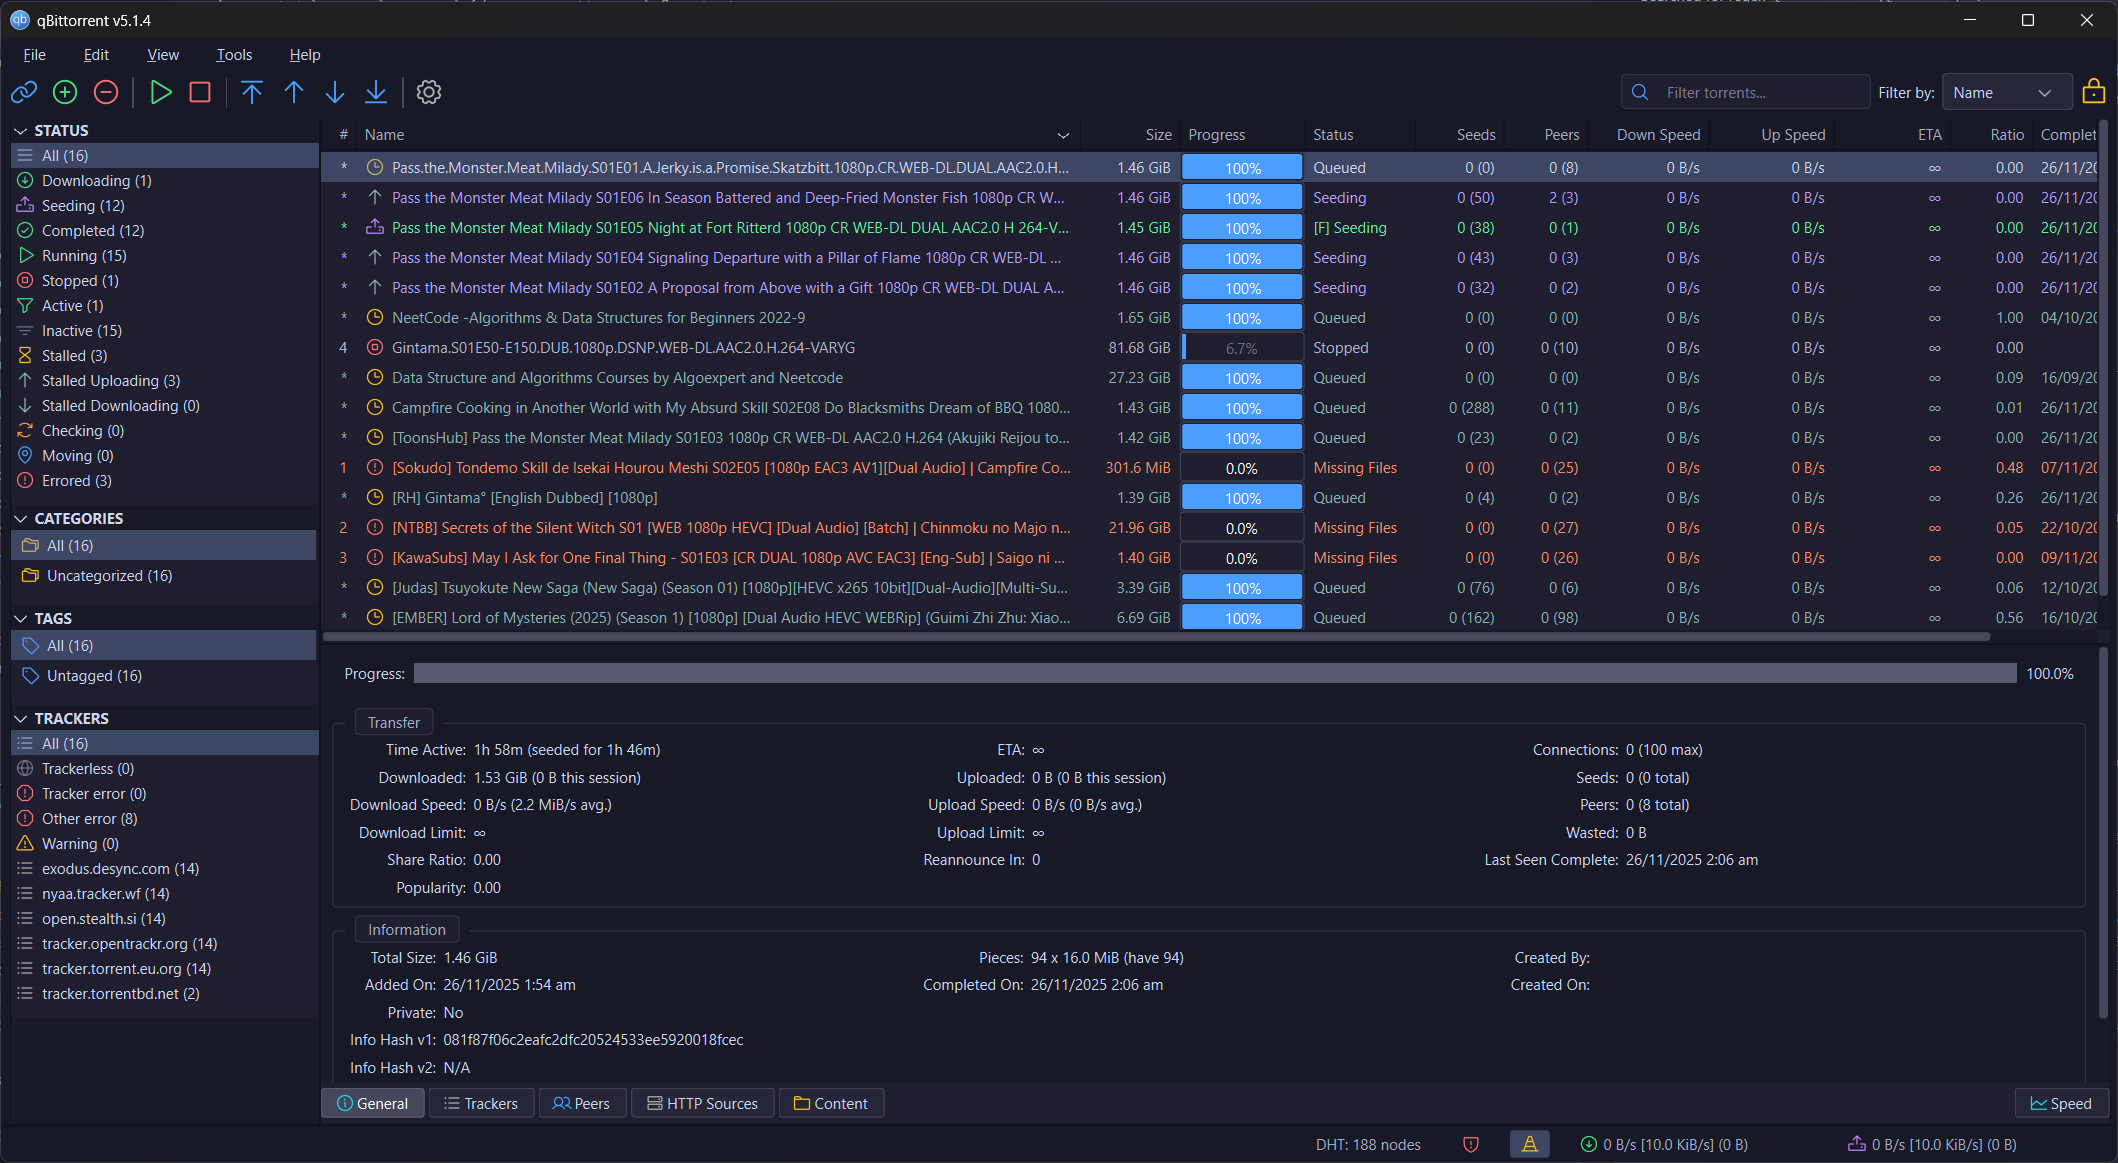
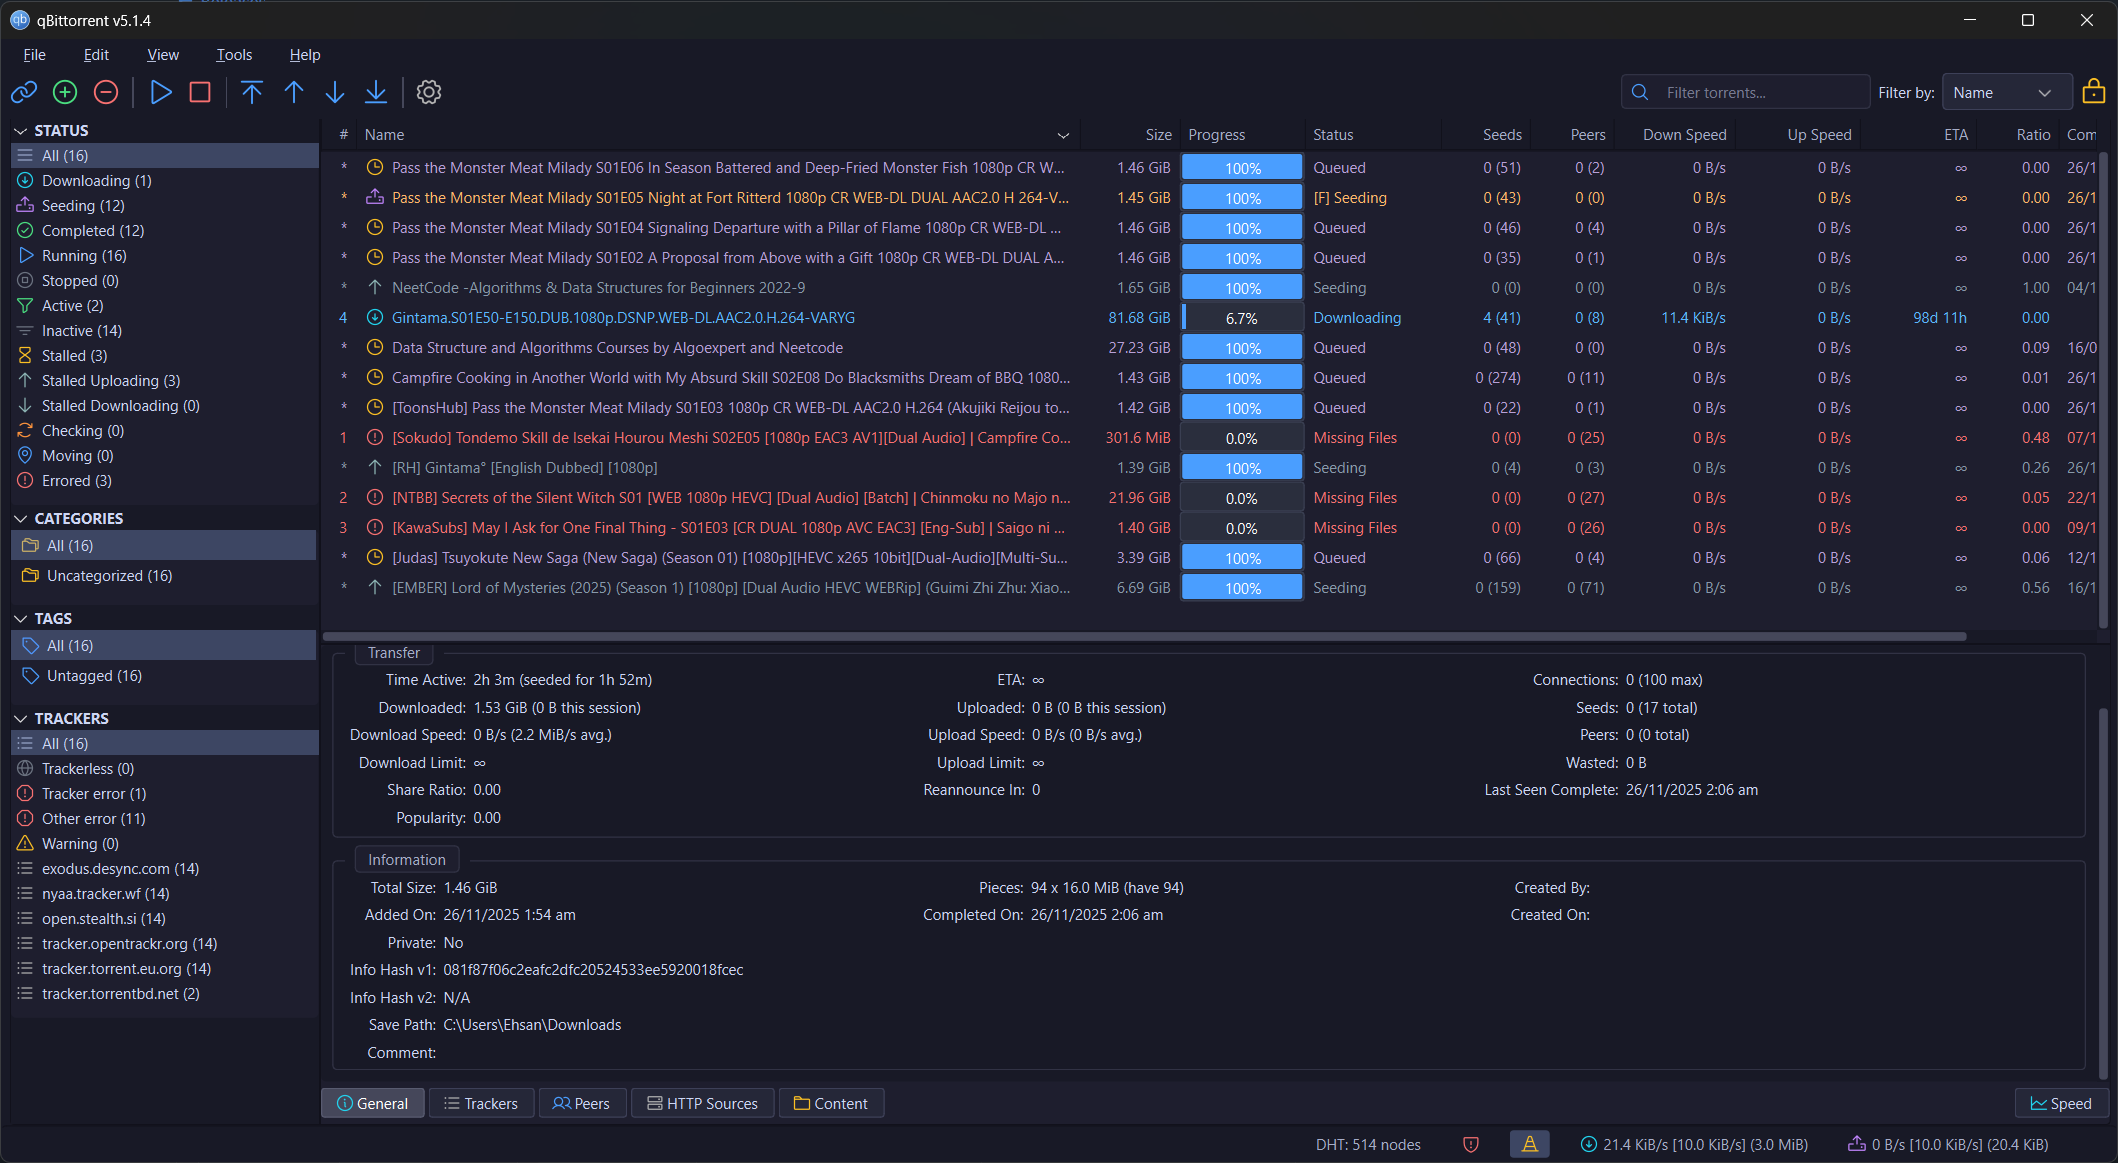
Revamp Nova Dark README and documentation
Updated the main and theme-specific README files to provide clearer installation, build, and feature documentation. Added detailed descriptions of theme features, status color mappings, and project structure. Updated the nova-dark screenshot to reflect the latest UI.

diff --git a/src/nova-dark/README.md b/src/nova-dark/README.md
@@ -1,38 +1,83 @@
 # Nova Dark Theme
 
-Nova Dark ships a refreshed color story on top of a shared base stylesheet (`src/common/styles/BaseTheme.scss`) that was extracted from the original Mumble dark theme. The common layer preserves widget geometry, spacing, focus rings, and behaviour while Nova swaps in a new palette and transfer-state colors.
+A modern, carefully crafted dark theme for qBittorrent featuring a refined color palette, semantic status colors, and a custom icon set built with Phosphor Icons.
 
-## Layout
+## Features
+
+- **Modern Dark Palette** – Deep, easy-on-the-eyes background with excellent contrast
+- **Semantic Status Colors** – Distinct, meaningful colors for each torrent state:
+  - Blue for downloading
+  - Green for uploading/seeding
+  - Orange for forced transfers
+  - Gray for stopped/stalled
+  - Red for errors
+- **Custom Icon Set** – 90+ carefully colored Phosphor icons
+- **Consistent UI** – Polished look across all widgets, dialogs, and panels
+
+## Project Structure
 
 ```
 nova-dark/
-  README.md
-  nova-dark-config.json   # qB palette used by the application chrome
-  icons/
-    modern/                 # drop SVG icons here (defaults to Mumble's set)
-  scripts/
-    generate_icon_manifest.py
-  source/
-  NovaDark.scss         # imports Nova Definitions + shared BaseTheme
-    Imports/
-      Nova Definitions.scss # palette values consumed by the base stylesheet
-      Nova Overrides.scss   # qproperty/QPalette tweaks layered on top
+├── nova-dark-config.json      # Color palette configuration
+├── NovaDark.qss               # Compiled stylesheet
+├── icons/
+│   └── modern/                # Custom Phosphor icon set
+│       └── icon-manifest.json # Icon color definitions
+├── scripts/
+│   └── download_phosphor_icons.py  # Icon generator script
+└── source/
+    ├── NovaDark.scss          # Main stylesheet source
+    └── Imports/
+        ├── Nova Definitions.scss   # Color variables
+        └── Nova Overrides.scss     # Custom overrides
 ```
 
-## Build Steps
+## Build
 
-Run the helper scripts from `src/`:
+### Using Docker (Recommended)
 
-- `../build-nova-dark.bat`
-- `../build-nova-dark.sh`
+```bash
+docker build -t qbt-theme-builder .
+docker run --rm -v "${PWD}:/workspace" qbt-theme-builder
+```
 
-Each script compiles `NovaDark.scss`, then packages two variants into `src/dist`:
+### Manual Build
 
-- `nova-dark-modern.qbtheme` – includes whatever icons live in `icons/modern`
-- `nova-dark-no-icons.qbtheme` – relies on qBittorrent's stock icons
+Run from the repository root:
+- **Windows:** `scripts\build-nova-dark.bat`
+- **Linux/macOS:** `./scripts/build-nova-dark.sh`
 
-## Icons
+### Output
 
-If you want the Nova theme to look identical to Mumble Dark, copy the SVG set from `src/mumble-theme` (or rerun the original recolor pipeline) into `icons/modern` before building. The shared controls (checkboxes, radios, tree toggles, etc.) live in `src/common/controls` and already use Nova's accent hue.
+Two theme variants are generated in `dist/`:
+- `nova-dark-modern.qbtheme` – Full theme with custom icons
+- `nova-dark-no-icons.qbtheme` – Stylesheet only (uses qBittorrent's default icons)
 
-> Tip: Because Nova reuses the base stylesheet, keeping the icon filenames identical to Mumble's guarantees all lookups resolve without further tweaks.
+## Regenerating Icons
+
+To regenerate the icon set with custom colors:
+
+```bash
+cd src/nova-dark/scripts
+python download_phosphor_icons.py
+```
+
+The script downloads Phosphor icons and applies the color palette defined in the script. Edit `COLORS` and `ICON_MAPPING` to customize.
+
+## Status Text Colors
+
+| Status        | Color     | Hex       |
+| ------------- | --------- | --------- |
+| Downloading   | Blue      | `#5cb8ff` |
+| Uploading     | Green     | `#50e0a0` |
+| Forced        | Orange    | `#ffb86c` |
+| Stalled       | Gray      | `#8899aa` |
+| Stopped       | Dark Gray | `#707888` |
+| Queued        | Lavender  | `#b8a0d8` |
+| Moving        | Gold      | `#e0c060` |
+| Error         | Red       | `#ff5555` |
+| Missing Files | Red       | `#f87171` |
+
+## License
+
+MIT License

diff --git a/README.md b/README.md
@@ -1,33 +1,54 @@
 # Nova Dark Theme for qBittorrent
 
-Nova Dark refreshes qBittorrent’s interface with a Catppuccin-inspired palette while keeping widget geometry and behavior consistent with the original Mumble-derived base theme. All source files for Nova live under `src/nova-dark`, and the shared scaffolding resides in `src/common`.
+A modern, carefully crafted dark theme for qBittorrent featuring a refined color palette, semantic status colors, and a custom icon set.
 
 ![Nova Dark screenshot](screenshots/nova-dark.png)
 
+## Features
+
+- 🎨 **Modern Dark Palette** – Deep, easy-on-the-eyes background with excellent contrast
+- 🚦 **Semantic Status Colors** – Distinct colors for each torrent state (downloading, seeding, stalled, error, etc.)
+- 🎯 **90+ Custom Icons** – Phosphor icon set with meaningful color coding
+- ✨ **Polished UI** – Consistent styling across all widgets, dialogs, and panels
+
 ## Install
 
-1. Download the Nova `.qbtheme` archive you prefer from `dist/` (either the version with icons or without).
-2. In **qBittorrent**, open *Tools → Options → Behavior* and enable **Use custom UI Theme**.
-3. Browse to the downloaded `.qbtheme` file, click **Apply**, then **OK**.
-4. Restart qBittorrent to load the new styling.
+1. Download `nova-dark-modern.qbtheme` from the [Releases](https://github.com/ehsan18t/qbt-theme/releases) page
+2. In qBittorrent, go to **Tools → Options → Behavior**
+3. Enable **Use custom UI Theme**
+4. Browse to the downloaded `.qbtheme` file
+5. Click **Apply**, then **OK**
+6. Restart qBittorrent
 
-## Build Nova
+## Build from Source
 
-You can rebuild the theme locally while iterating on colors or icons:
+### Using Docker (Recommended)
 
-- Copy the desired SVG icons into `src/nova-dark/icons/modern/` (optional if you prefer stock icons).
-- Run `scripts\build-nova-dark.bat` on Windows or `./scripts/build-nova-dark.sh` on macOS/Linux.
+```bash
+docker build -t qbt-theme-builder .
+docker run --rm -v "${PWD}:/workspace" qbt-theme-builder
+```
 
-The scripts emit two artifacts in `dist/`:
+### Manual Build
 
-- `nova-dark-modern.qbtheme` – includes the custom icon set.
-- `nova-dark-no-icons.qbtheme` – ships only the stylesheet and palette configuration.
+- **Windows:** `scripts\build-nova-dark.bat`
+- **Linux/macOS:** `./scripts/build-nova-dark.sh`
 
-### Using Docker (optional)
+Output files are generated in `dist/`:
+- `nova-dark-modern.qbtheme` – Full theme with custom icons
+- `nova-dark-no-icons.qbtheme` – Stylesheet only
 
-If Docker is available, you can build without installing the native toolchain:
+## Status Colors
 
-- `docker build -t qbt-theme-builder .`
-- `docker run --rm -v "${PWD}:/workspace" qbt-theme-builder`
+| Status | Color |
+|--------|-------|
+| Downloading | 🔵 Blue |
+| Uploading/Seeding | 🟢 Green |
+| Forced | 🟠 Orange |
+| Stalled | ⚪ Gray |
+| Queued | 🟣 Lavender |
+| Error/Missing | 🔴 Red |
 
-The container mounts the repository, runs the Nova build script, and drops the resulting `.qbtheme` archives into `dist/` on the host.
+## License
+
+MIT License